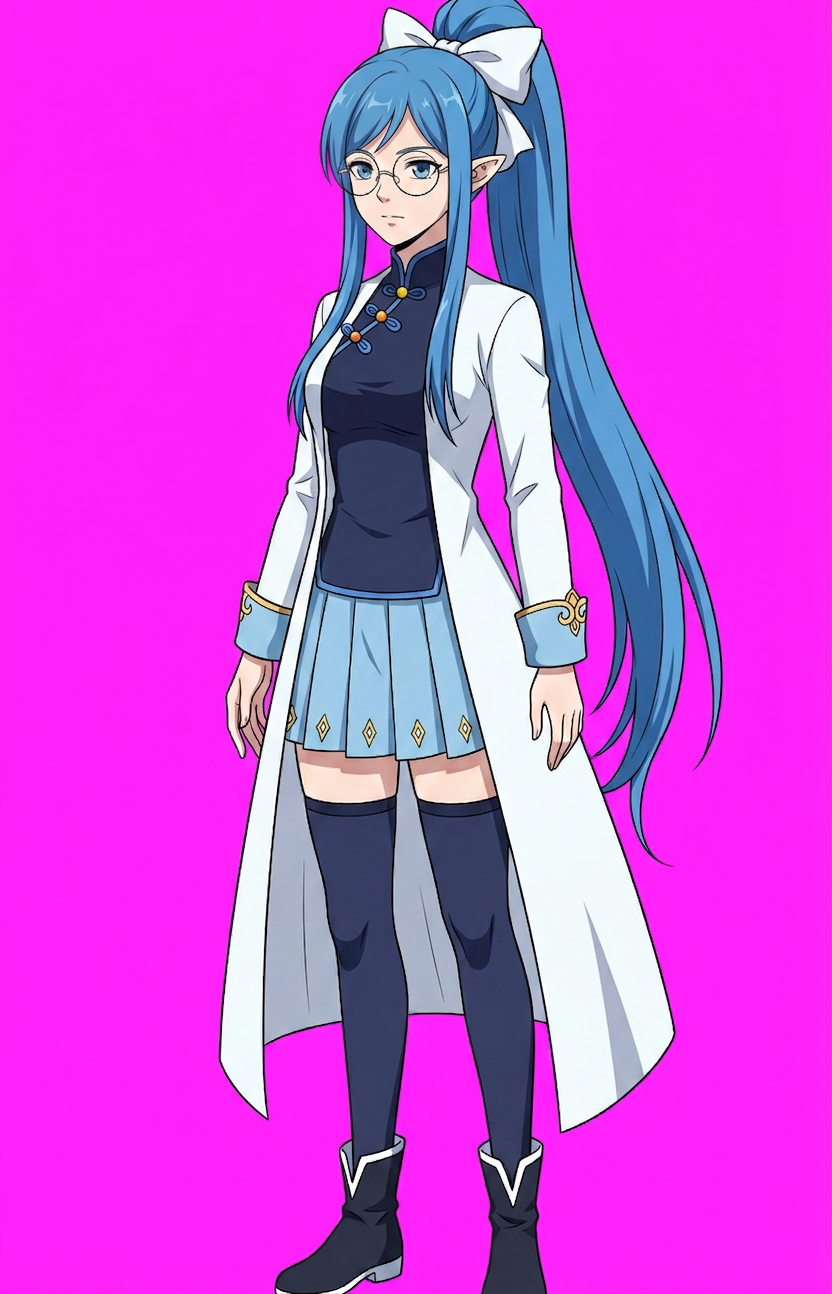
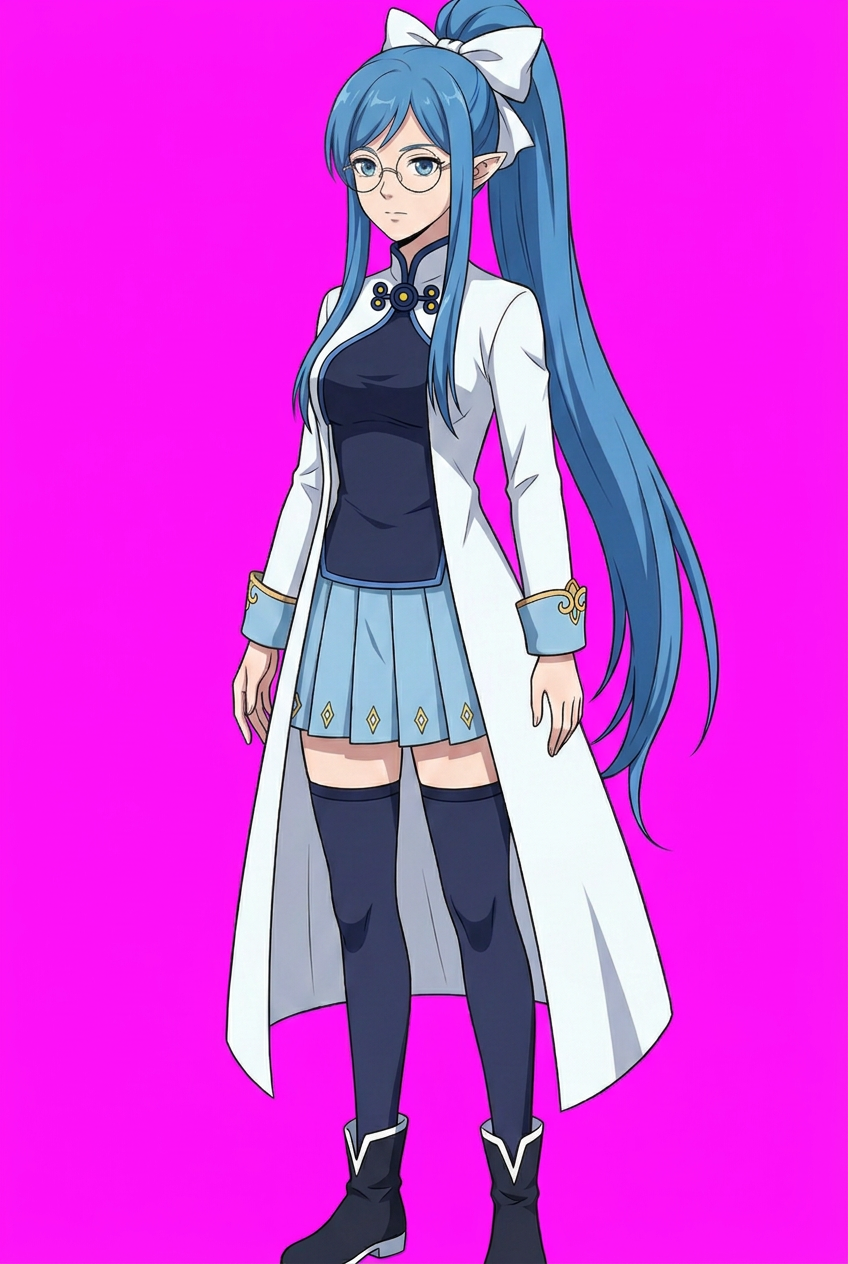
叶欣蓝: 领口改为漫画横排三盘扣

Changed region(s): [[0.25, 0.0, 0.875, 1.0], [0.25, 0.7097, 0.2812, 0.8331], [0.3125, 0.9873, 0.3438, 1.0]]

diff --git a/dev/design/漫画复核进度.md b/dev/design/漫画复核进度.md
@@ -101,7 +101,7 @@
 | 玄衣 | xuanyi | 273-03/04/08（丹塔三巨头右侧，旗袍女子） | ❌→已重画（旧图有青色披帛、穿高跟鞋；漫画为无披帛，白色肩片浅蓝边，手臂缠红绳，开衩处露白底浅蓝边，红长靴） |
 | 天雷子（新增） | tianleizi | 273-03/07（丹塔三巨头左侧，棕发大胡子） | 🆕 用户选A：作为第5章丹会剧情人物加入，不参加战斗 |
 | 叶重 | yezhong | 249-07（字幕"叶家大长老"）、249-11（千叶掌） | ✅ 与漫画一致 |
-| 叶欣蓝（新增） | yexinlan | 249-06/18/20（萧炎在迦南的学生、叶重孙女） | 🆕 用户选A：第5章剧情人物，不参加战斗；领口盘扣为竖排，漫画是横排三扣（小差异） |
+| 叶欣蓝（新增） | yexinlan | 249-06/18/20（萧炎在迦南的学生、叶重孙女） | 🆕 用户选A：第5章剧情人物，不参加战斗；领口已按用户要求改为漫画的白色高领横排三盘扣 |
 | 花锦 | huajin | 327-17/18 + fandom 漫画图（花宗，粉色花鞭"百花鞭"） | ❌→已重画（旧图米黄毛领、紫色裙；漫画为白色大毛领、红袍金色月牙纹、深蓝V领镶金、眼下痣、头侧粉色花饰） |
 
 ## 用户决定（2026-09-27）
